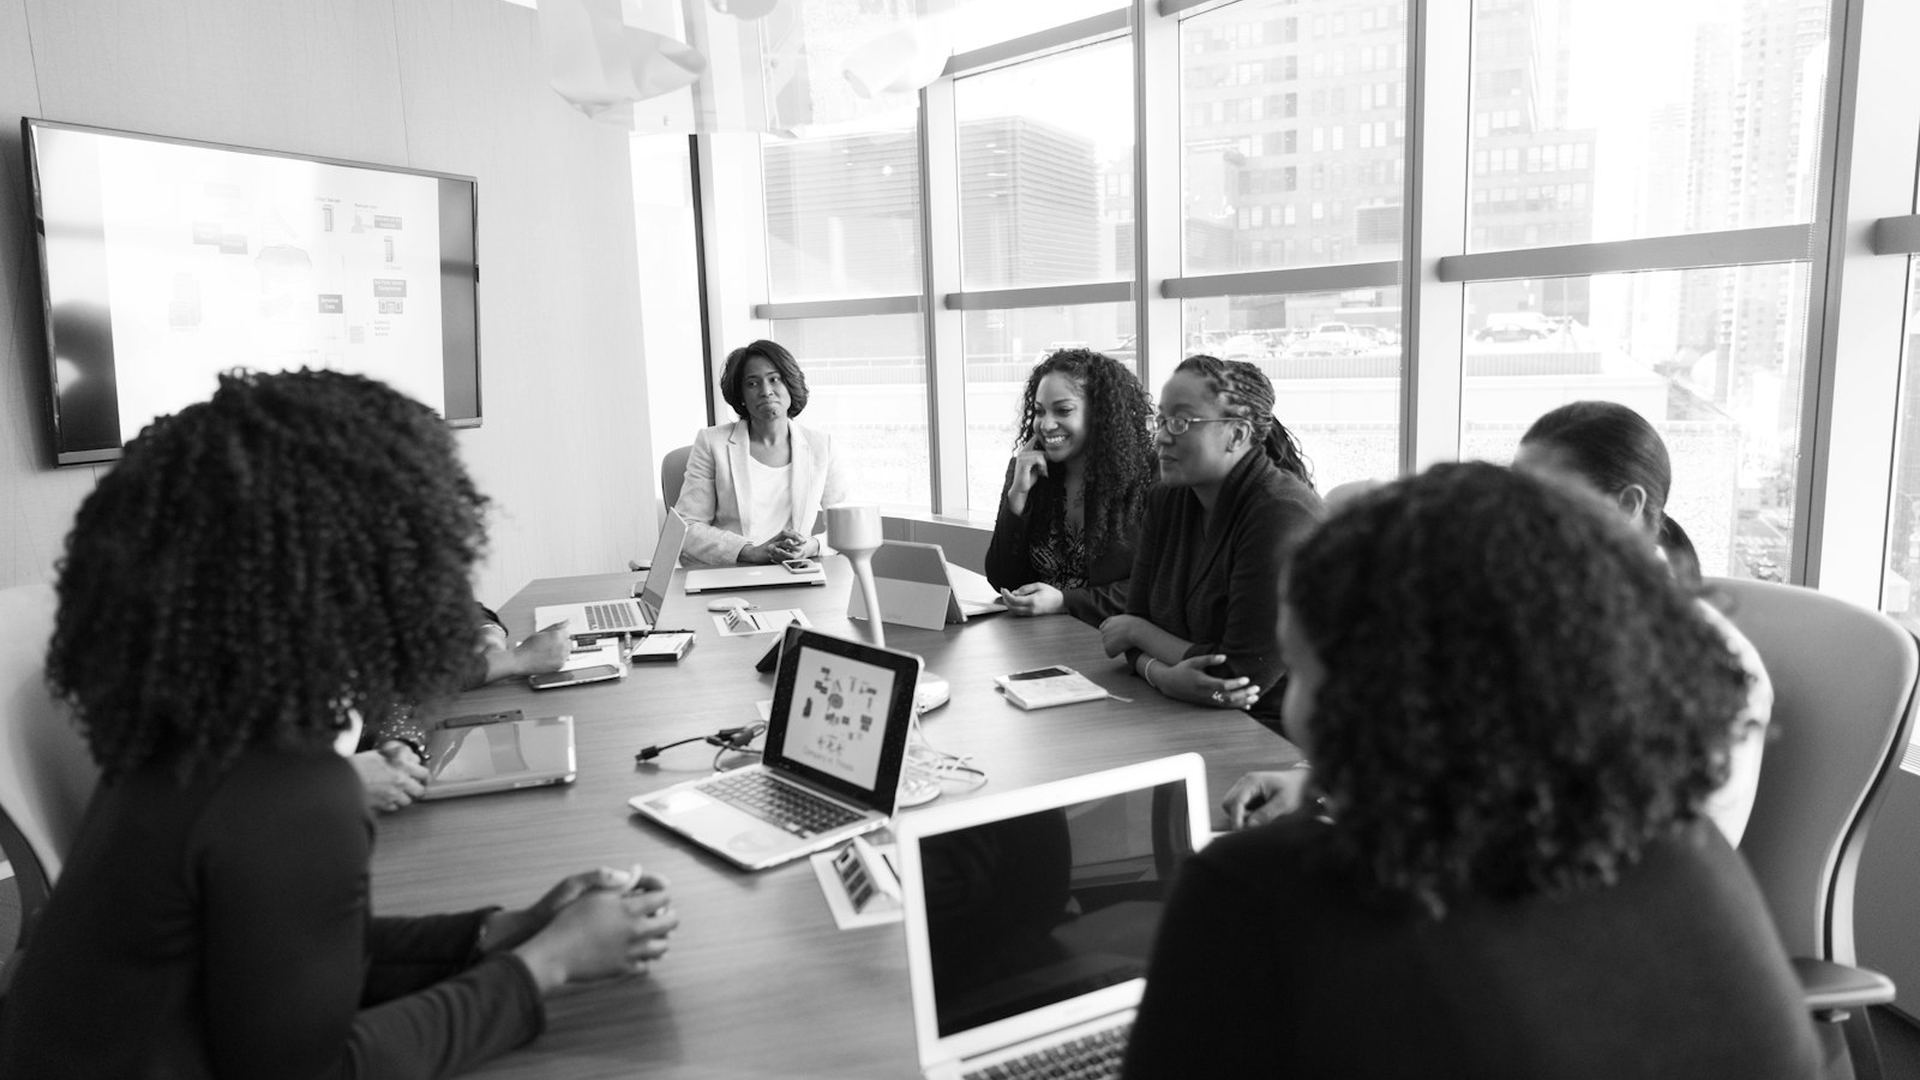
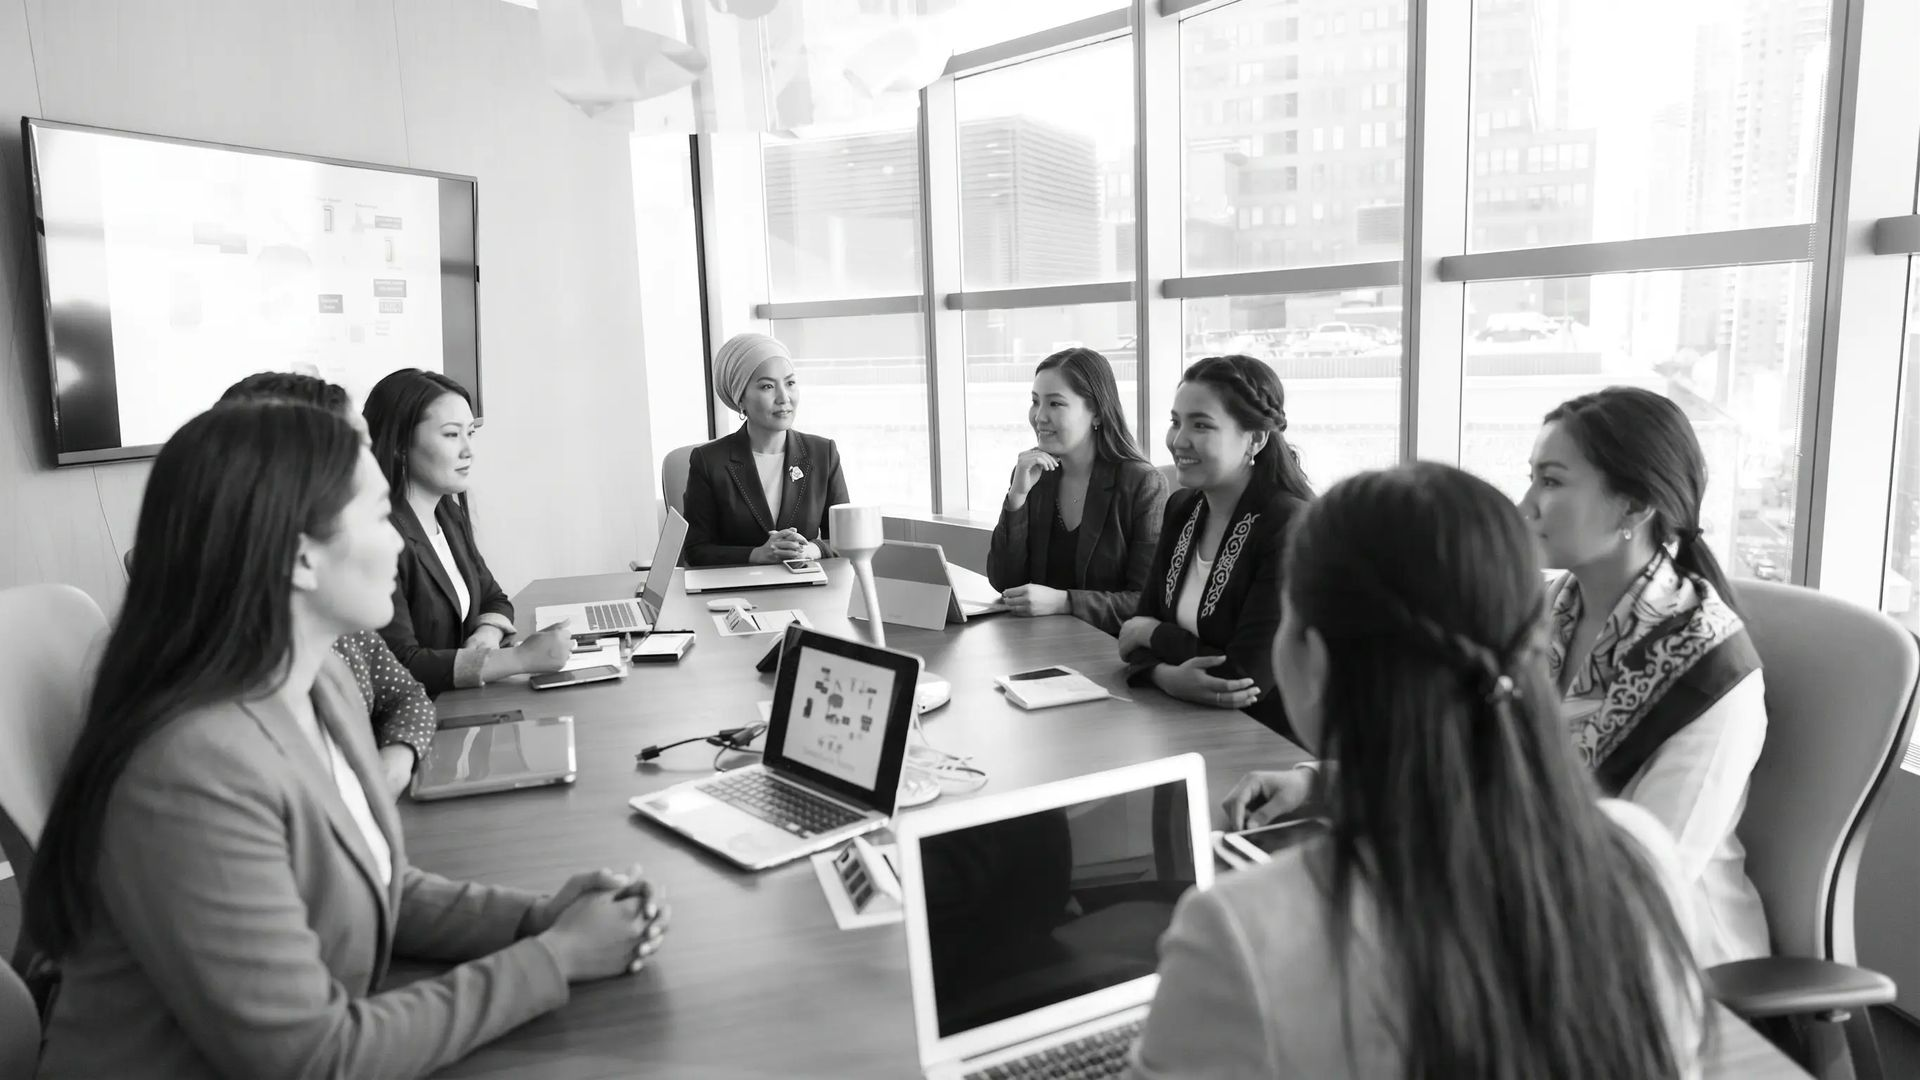
Новое hero-фото от заказчика и неразрывное «IS QOLDAY»
- Hero заменён на снимок заказчика, отдаётся через <picture>:
  WebP 88 КБ основным, JPEG 182 КБ фолбэком
- Контраст под текстом померен на рендере со скрытым текстом:
  10.04:1 в среднем, 5.30:1 в самой светлой точке
- Название центра перестало рваться на «IS» / «QOLDAY»

diff --git a/index.html b/index.html
@@ -88,6 +88,8 @@ ul,ol{list-style:none;padding:0}
 .lead{font-size:1.0625rem;line-height:1.75;color:var(--ink-soft)}
 .on-dark .lead{color:rgba(255,255,255,.76)}
 .sec-head{max-width:44rem;margin-bottom:3rem}
+/* Имя собственное не должно рваться по строкам */
+.nb{white-space:nowrap}
 .sec-head.row{max-width:none;display:flex;flex-wrap:wrap;gap:1.25rem 2rem;align-items:flex-end;justify-content:space-between}
 
 .ic{width:1.25rem;height:1.25rem;flex:none;stroke:currentColor;fill:none;stroke-width:1.75;stroke-linecap:round;stroke-linejoin:round}
@@ -160,6 +162,7 @@ ul,ol{list-style:none;padding:0}
 .hero{position:relative;isolation:isolate;background:var(--navy);color:#fff;overflow:hidden}
 /* Фото временное, со стока — заменяется один в один, см. assets/PHOTO-CREDITS.md */
 .hero-media{position:absolute;inset:0;z-index:-3;background:var(--navy);overflow:hidden}
+.hero-media picture{display:block;width:100%;height:100%}
 .hero-media img{width:100%;height:100%;object-fit:cover;opacity:.82}
 /* Вуаль отдельным слоем: штриховка официального бланка поверх снимка */
 .hero-veil{position:absolute;inset:0;z-index:-2;background:
@@ -434,7 +437,12 @@ html.rv [data-rv].in{opacity:1;transform:none}
     <!-- Фото временное, со стока. Бриф требует реальные деловые снимки Совета —
          заменить файл, разметку трогать не нужно. Пропорции в assets/PHOTO-CREDITS.md -->
     <div class="hero-media">
-      <img src="assets/photo-hero.jpg" alt="" width="1920" height="1080" fetchpriority="high" />
+      <!-- WebP вдвое легче JPEG (88 КБ против 182), а hero — самый тяжёлый элемент страницы.
+           JPEG остаётся фолбэком для браузеров без поддержки WebP. -->
+      <picture>
+        <source srcset="assets/photo-hero.webp" type="image/webp" />
+        <img src="assets/photo-hero.jpg" alt="" width="1920" height="1080" fetchpriority="high" />
+      </picture>
     </div>
     <div class="hero-veil"></div>
     <div class="hero-rule" id="hero-rule"></div>
@@ -540,7 +548,7 @@ html.rv [data-rv].in{opacity:1;transform:none}
       <div class="rc-head">
         <div data-rv>
           <span class="eyebrow on-dark">С ноября 2020 года</span>
-          <h2 class="h2">Женский ресурсный центр «IS QOLDAY»</h2>
+          <h2 class="h2">Женский ресурсный центр <span class="nb">«IS QOLDAY»</span></h2>
           <p class="lead" style="margin-top:1rem">Пять видов профессиональных консультаций для предпринимательниц — в одном месте и по одной заявке.</p>
         </div>
         <figure class="shot" data-rv>
@@ -626,7 +634,7 @@ html.rv [data-rv].in{opacity:1;transform:none}
            датирована 2020–2022 годом. Цифру ставить после сверки с заказчиком. -->
       <ul class="stats" style="margin-top:2.75rem">
         <li data-rv><span class="v">2019</span><span class="l">Год основания Совета</span></li>
-        <li data-rv><span class="v">2020</span><span class="l">Запуск ресурсного центра «IS QOLDAY»</span></li>
+        <li data-rv><span class="v">2020</span><span class="l">Запуск ресурсного центра <span class="nb">«IS QOLDAY»</span></span></li>
         <li data-rv><span class="v" data-count="4" data-pad="2">04</span><span class="l">Ключевых направления работы</span></li>
         <li data-rv><span class="v" data-count="5" data-pad="2">05</span><span class="l">Видов консультаций в ресурсном центре</span></li>
       </ul>
@@ -659,7 +667,7 @@ html.rv [data-rv].in{opacity:1;transform:none}
           <div class="body">Условия членства, размер взносов и участие в отдельных программах публикуются после официального утверждения. Актуальные условия на текущий момент можно уточнить по телефону.</div>
         </details>
         <details>
-          <summary>Чем занимается ресурсный центр «IS QOLDAY»?<svg class="ic" aria-hidden="true"><use href="#i-chevron-down"/></svg></summary>
+          <summary>Чем занимается ресурсный центр <span class="nb">«IS QOLDAY»</span>?<svg class="ic" aria-hidden="true"><use href="#i-chevron-down"/></svg></summary>
           <div class="body">Центр работает с ноября 2020 года и даёт пять видов консультаций: юридические, психологические, кадровые, бухгалтерские и маркетинговые.</div>
         </details>
         <details>

diff --git a/assets/PHOTO-CREDITS.md b/assets/PHOTO-CREDITS.md
@@ -6,22 +6,33 @@
 
 | Файл | Сюжет | Автор | Оригинал |
 |---|---|---|---|
-| `photo-hero.jpg` | Совещание в переговорной у окна, ч/б | Christina @ wocintechchat.com | `photo-1573165662973-4ab3cf3d3508` |
+| `photo-hero.webp` + `.jpg` | Совещание Совета, ч/б | **предоставлено заказчиком** | — |
 | `photo-about.jpg` | Консультация за рабочим столом | Amy Hirschi | `photo-1551836022-4c4c79ecde51` |
 | `photo-resource.jpg` | Разбор материалов у доски | Unsplash | `photo-1681949215173-fe0d15c790c1` |
 | `photo-network.jpg` | Деловая встреча группы | Unsplash | `photo-1590650046871-92c887180603` |
 
 Прямой адрес любого оригинала: `https://images.unsplash.com/<id>`
 
-## Это временные снимки
+## ⚠ По hero нужно подтверждение заказчика
+
+`photo-hero` заменён на снимок от заказчика (2730×1536, уменьшен до 1920×1080).
+Перед публичным запуском надо выяснить:
+
+1. **Это реальное фото Совета или сгенерированное?** От ответа зависит, можно ли подписывать
+   его как фотографию мероприятия.
+2. **Если люди реальные — есть ли их согласие на публикацию?** На снимке различимые лица;
+   для размещения на публичном сайте требуется согласие изображённых.
+
+Отдаётся в двух форматах: WebP (88 КБ) основной, JPEG (182 КБ) фолбэком через `<picture>`.
+
+## Остальные снимки — временные
 
 Бриф требует **реальные деловые фотографии** Совета — мероприятий, команды, офиса.
 Как только заказчик их пришлёт, эти файлы заменяются один в один: имена и пропорции
-подобраны так, чтобы разметку трогать не пришлось.
+подобраны так, чтобы разметку трогать не пришлось. Hero уже заменён.
 
 | Файл | Требуемые пропорции |
 |---|---|
-| `photo-hero.jpg` | 16:9, минимум 1920×1080 |
 | `photo-about.jpg` | 4:3, минимум 960×720 |
 | `photo-resource.jpg` | 4:3, минимум 960×720 |
 | `photo-network.jpg` | 3:2, минимум 960×640 |

diff --git a/PROGRESS.md b/PROGRESS.md
@@ -72,6 +72,15 @@
   стал одноколоночным, снимок открылся по всей ширине. Текстовый блок ограничен 44rem —
   строка длиннее ~60 знаков читается тяжело. Контраст заголовка 9.38:1.
 
+- **Hero-фото заменено на снимок заказчика** (2730×1536 → 1920×1080). Отдаётся через `<picture>`:
+  WebP 88 КБ основным, JPEG 182 КБ фолбэком — hero это самый тяжёлый элемент страницы.
+  Контраст под текстом померен на рендере со скрытым текстом (иначе метрика попадает в сами буквы):
+  среднее 10.04:1, в самой светлой точке 5.30:1 — выше нормы.
+  **Открыто:** реальный это снимок Совета или сгенерированный, и есть ли согласие изображённых
+  на публикацию — на фото различимые лица. См. `assets/PHOTO-CREDITS.md`.
+- **«IS QOLDAY» больше не рвётся по строкам.** Название рвалось на «IS» и «QOLDAY»»;
+  обёрнуто в `.nb{white-space:nowrap}` в трёх местах. На 360px занимает 167px из 320 — не переполняет.
+
 ## Проверено в браузере
 - 7 якорей резолвятся, мёртвых `href="#"` нет
 - аккордеон держит открытым один пункт
